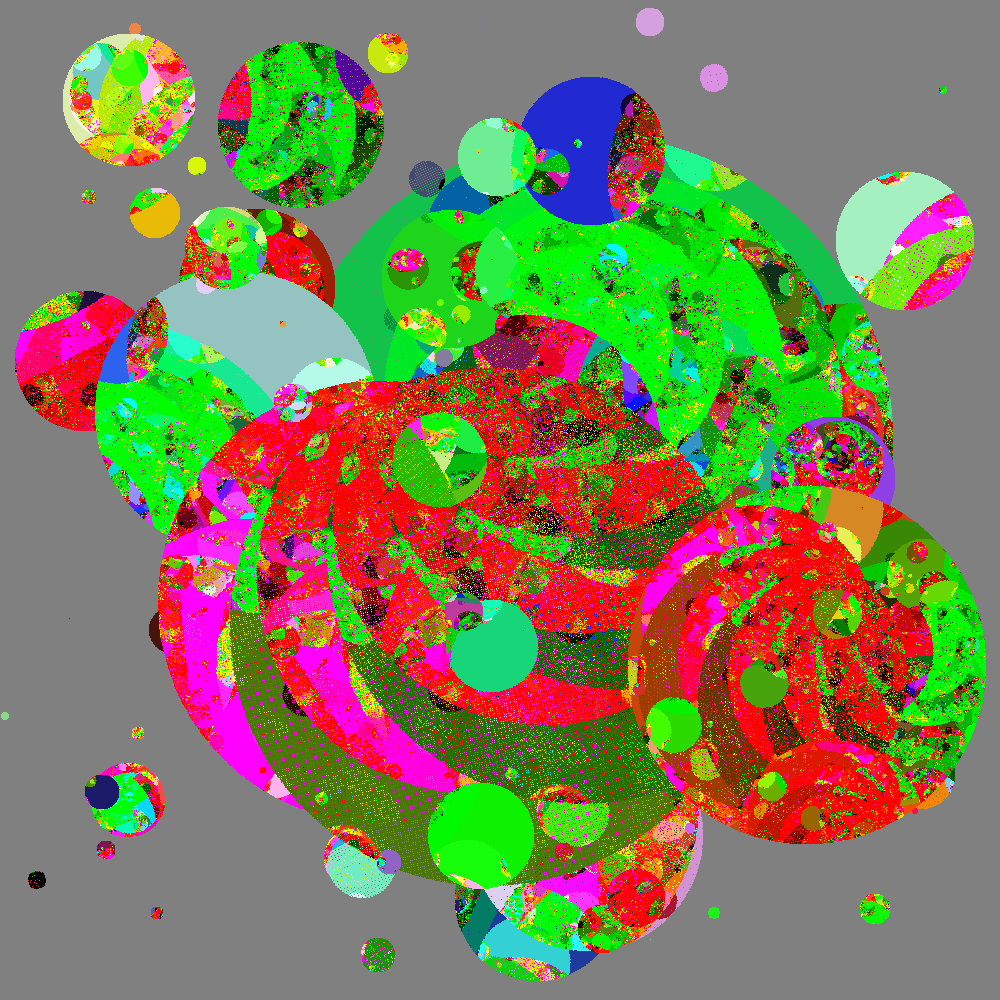
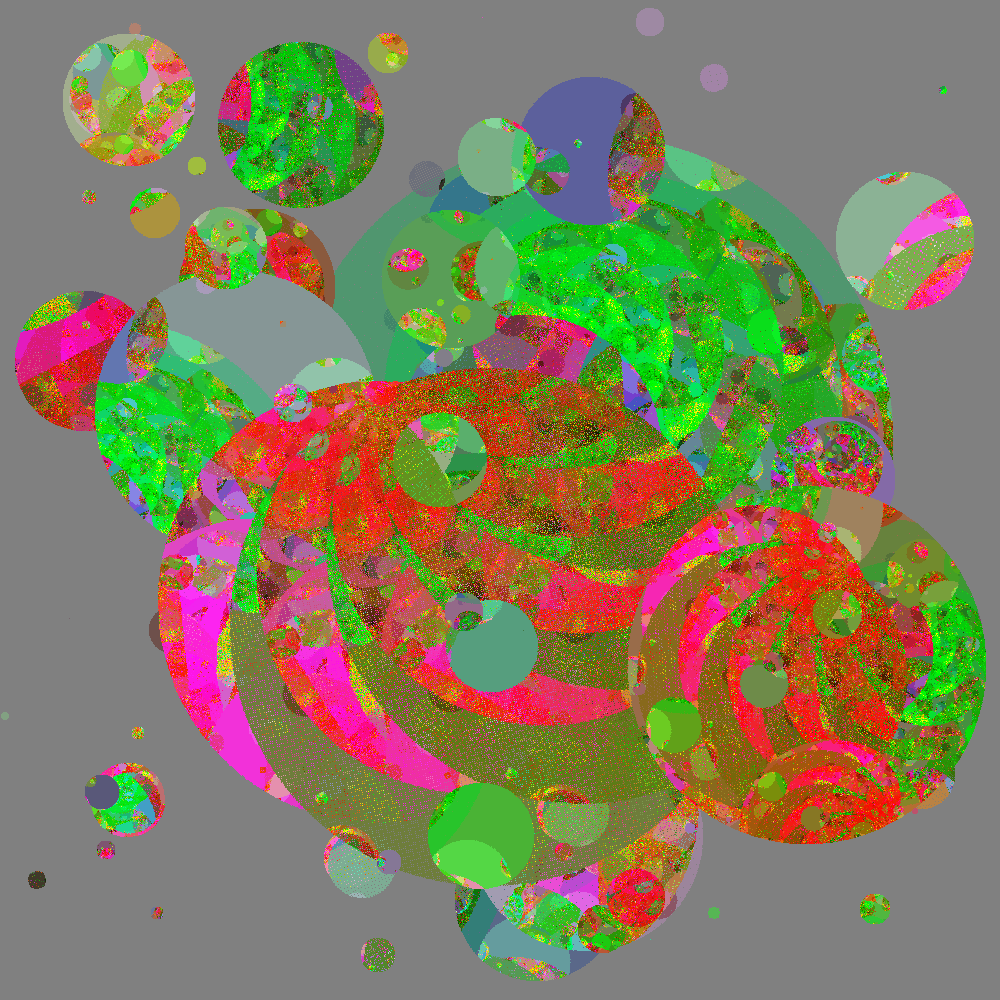
Fix low amount of color

diff --git a/src/main.rs b/src/main.rs
@@ -90,7 +90,11 @@ fn make_image(unique_trans: usize, num_trans: usize, size: usize, seed: u64) -> 
     let mut count = 0;
     let mut characteristic_width = bucket_width;
     for (i, b) in buckets.iter().enumerate() {
-        count += b;
+        if i == 0 {
+            count += b/2
+        } else {
+            count += b;
+        }
         if count > size.pow(2) * 3 / 2 {
             characteristic_width = i as f64 * bucket_width;
             break;
